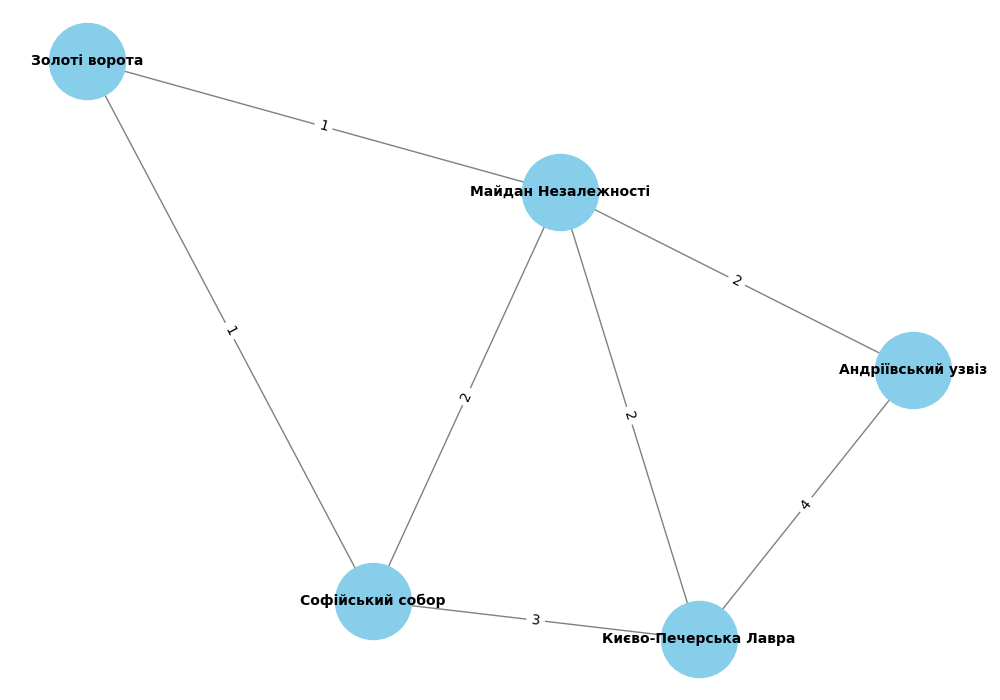
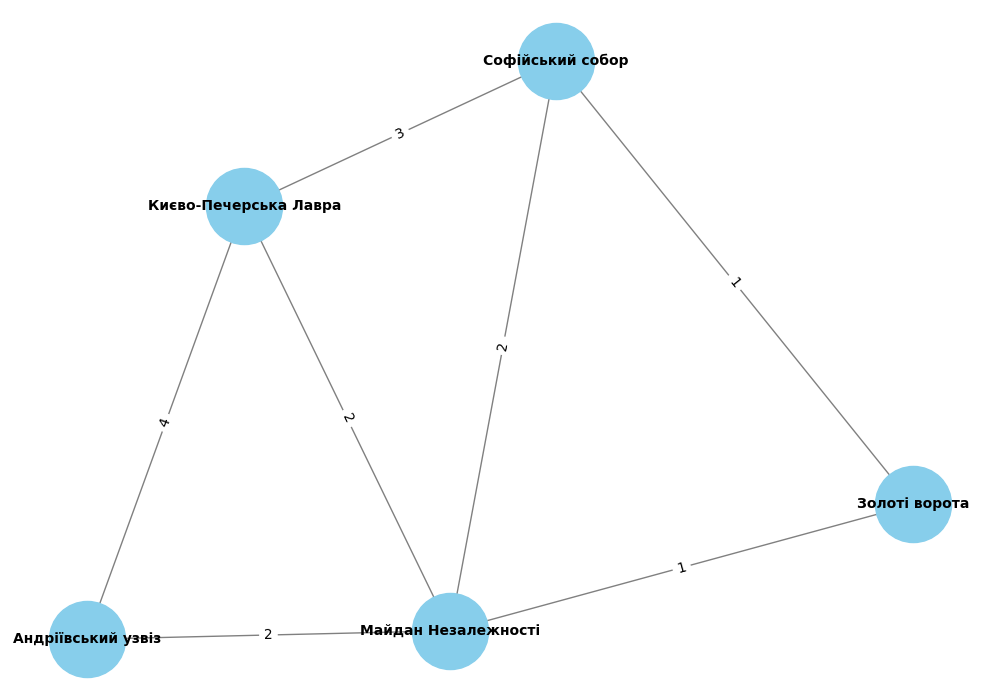
task3

diff --git a/task3.py b/task3.py
@@ -1,4 +1,6 @@
 # Завдання 3
+# Реалізуйте алгоритм Дейкстри для знаходження найкоротшого шляху в розробленому графі: 
+# додайте у граф ваги до ребер та знайдіть найкоротший шлях між всіма вершинами графа.
 
 import networkx as nx
 import matplotlib.pyplot as plt
@@ -6,37 +8,128 @@ import matplotlib.pyplot as plt
 # Створимо порожній граф
 G = nx.Graph()
 
-# Додамо вершини (станції метро)
-stations = {
-    "Червона лінія": ["Академмістечко", "Житомирська", "Святошин", "Нивки", "Берестейська", "Шулявська", "Політехнічний інститут", "Вокзальна", "Університет", "Театральна", "Хрещатик", "Арсенальна", "Дніпро", "Лівобережна", "Дарниця", "Чернігівська", "Лісова"],
-    "Синя лінія": ["Героїв Дніпра", "Мінська", "Оболонь", "Почайна", "Тараса Шевченка", "Контрактова площа", "Поштова площа", "Майдан Незалежності", "Площа Льва Толстого", "Олімпійська", "Палац Україна", "Либідська", "Деміївська", "Голосіївська", "Васильківська", "Виставковий центр", "Іподром", "Теремки"],
-    "Зелена лінія": ["Сирець", "Дорогожичі", "Лук'янівська", "Золоті ворота", "Палац спорту", "Кловська", "Печерська", "Дружби народів", "Видубичі", "Славутич", "Осокорки", "Позняки", "Харківська", "Вирлиця", "Бориспільська", "Червоний хутір"]
-}
+# Додамо вершини (туристичні місця)
+tourist_sites = ["Києво-Печерська Лавра", "Софійський собор", "Золоті ворота", "Майдан Незалежності", "Андріївський узвіз"]
 
-# Додамо вершини та ребра для кожної лінії метро з вагами
-for line, stops in stations.items():
-    G.add_nodes_from(stops)
-    G.add_edges_from([(stops[i], stops[i+1], {'weight': 1}) for i in range(len(stops) - 1)])
+# Додамо вершини до графа
+G.add_nodes_from(tourist_sites)
 
-# Додамо декілька перехідних ребер з вагами
-transfer_edges = [
-    ("Театральна", "Золоті ворота", 1),
-    ("Хрещатик", "Майдан Незалежності", 1),
-    ("Палац спорту", "Площа Льва Толстого", 1)
+# Додамо ребра (маршрути між туристичними місцями)
+# Відстані між туристичними місцями взяті умовно для прикладу
+edges = [
+    ("Києво-Печерська Лавра", "Софійський собор", 3),
+    ("Софійський собор", "Золоті ворота", 1),
+    ("Золоті ворота", "Майдан Незалежності", 1),
+    ("Майдан Незалежності", "Андріївський узвіз", 2),
+    ("Андріївський узвіз", "Києво-Печерська Лавра", 4),
+    ("Києво-Печерська Лавра", "Майдан Незалежності", 2),  # Додаткове ребро
+    ("Софійський собор", "Майдан Незалежності", 2)  # Додаткове ребро
 ]
-for u, v, w in transfer_edges:
+
+# Додаємо ребра до графа з вагами
+for u, v, w in edges:
     G.add_edge(u, v, weight=w)
 
 # Візуалізуємо граф
 pos = nx.spring_layout(G)  # Розташування вершин
-plt.figure(figsize=(15, 10))
-nx.draw(G, pos, with_labels=True, node_color='skyblue', node_size=2000, edge_color='gray', font_size=10)
+plt.figure(figsize=(10, 7))
+nx.draw(G, pos, with_labels=True, node_color='skyblue', node_size=3000, edge_color='gray', font_size=10, font_weight='bold')
 labels = nx.get_edge_attributes(G, 'weight')
 nx.draw_networkx_edge_labels(G, pos, edge_labels=labels)
-plt.title("Карта метро міста Київ з вагами ребер")
+plt.title("Транспортна мережа туристичних місць Києва")
+plt.savefig("graph1.png")  # Збереження зображення графа
 plt.show()
 
-# Алгоритм Дейкстри
+# Реалізація DFS (Depth-First Search)
+def dfs(graph, start, goal, path=None, visited=None):
+    if path is None:
+        path = []
+    if visited is None:
+        visited = set()
+    path.append(start)
+    visited.add(start)
+    if start == goal:
+        return path
+    for neighbor in graph[start]:
+        if neighbor not in visited:
+            result = dfs(graph, neighbor, goal, path.copy(), visited)
+            if result is not None:
+                return result
+    return None
+
+# Реалізація BFS (Breadth-First Search)
+def bfs(graph, start, goal):
+    queue = [(start, [start])]
+    visited = set()
+    while queue:
+        (vertex, path) = queue.pop(0)
+        if vertex not in visited:
+            if vertex == goal:
+                return path
+            visited.add(vertex)
+            for neighbor in graph[vertex]:
+                queue.append((neighbor, path + [neighbor]))
+    return None
+
+# Знаходимо шляхи за допомогою DFS та BFS
+start, goal = "Києво-Печерська Лавра", "Андріївський узвіз"
+path_dfs = dfs(G, start, goal)
+path_bfs = bfs(G, start, goal)
+
+print(f"Шлях від {start} до {goal} за допомогою DFS: {path_dfs}")
+print(f"Шлях від {start} до {goal} за допомогою BFS: {path_bfs}")
+
+# Пояснення результатів
+explanation = """
+Пояснення результатів:
+DFS (глибини пошуку) йде по глибоких шляхах до тих пір, поки не досягне цілі або не повернеться назад. 
+Це означає, що DFS може знайти шлях, який не є найкоротшим, особливо якщо в графі є кілька шляхів до цілі.
+BFS (ширини пошуку) йде по всіх сусідніх вершинах, перш ніж перейти на наступний рівень глибини, тому знаходить найкоротший шлях у графі.
+"""
+print(explanation)
+
+# Створення документа markdown
+readme_content = f"""
+# Порівняння алгоритмів DFS та BFS для знаходження шляхів у графі
+
+## Опис
+Цей документ містить порівняння алгоритмів DFS (глибини пошуку) та BFS (ширини пошуку) для знаходження шляхів у графі, що моделює транспортну мережу туристичних місць Києва.
+
+## Граф
+Мережа включає такі туристичні місця:
+1. Києво-Печерська Лавра
+2. Софійський собор
+3. Золоті ворота
+4. Майдан Незалежності
+5. Андріївський узвіз
+
+Графічне представлення мережі:
+
+![Граф](graph.png)
+
+## Результати пошуку
+
+### Шлях від "Києво-Печерська Лавра" до "Андріївський узвіз"
+
+#### DFS (глибини пошуку)
+- Шлях: {path_dfs}
+
+#### BFS (ширини пошуку)
+- Шлях: {path_bfs}
+
+## Пояснення результатів
+DFS (глибини пошуку) йде по глибоких шляхах до тих пір, поки не досягне цілі або не повернеться назад. Це означає, що DFS може знайти шлях, який не є найкоротшим, особливо якщо в графі є кілька шляхів до цілі.
+
+BFS (ширини пошуку) йде по всіх сусідніх вершинах, перш ніж перейти на наступний рівень глибини, тому знаходить найкоротший шлях у графі.
+
+## Висновки
+- **DFS** може знайти будь-який шлях до цілі, але не завжди найкоротший.
+- **BFS** завжди знаходить найкоротший шлях, якщо всі ребра мають однакову вагу.
+
+На основі отриманих результатів, алгоритм BFS краще підходить для знаходження найкоротшого шляху в графах з рівними вагами ребер.
+"""
+
+# Реалізація алгоритму Дейкстри
 def dijkstra(graph, start):
     shortest_paths = {start: (None, 0)}
     current_node = start
@@ -47,43 +140,45 @@ def dijkstra(graph, start):
         destinations = graph[current_node]
         weight_to_current_node = shortest_paths[current_node][1]
 
-        for next_node, data in destinations.items():
-            weight = data['weight'] + weight_to_current_node
+        for next_node in destinations:
+            weight = graph[current_node][next_node]['weight'] + weight_to_current_node
             if next_node not in shortest_paths:
                 shortest_paths[next_node] = (current_node, weight)
             else:
                 current_shortest_weight = shortest_paths[next_node][1]
                 if current_shortest_weight > weight:
                     shortest_paths[next_node] = (current_node, weight)
-        
+
         next_destinations = {node: shortest_paths[node] for node in shortest_paths if node not in visited}
         if not next_destinations:
             return shortest_paths
-        
+
         current_node = min(next_destinations, key=lambda k: next_destinations[k][1])
 
     return shortest_paths
 
-# Знаходимо найкоротші шляхи від Академмістечка до всіх інших станцій
-start_station = "Академмістечко"
-shortest_paths = dijkstra(G, start_station)
+# Знаходження найкоротших шляхів від кожної вершини до кожної іншої вершини
+shortest_paths_all = {}
+for node in G.nodes:
+    shortest_paths_all[node] = dijkstra(G, node)
 
-# Виводимо найкоротші шляхи та відстані
-for destination in shortest_paths:
-    path = []
-    node = destination
-    while node is not None:
-        path.append(node)
-        node = shortest_paths[node][0]
-    path = path[::-1]
-    print(f"Найкоротший шлях від {start_station} до {destination}: {' -> '.join(path)} з відстанню {shortest_paths[destination][1]}")
+# Оновлення markdown документа з результатами алгоритму Дейкстри
+readme_content += "\n## Найкоротші шляхи за алгоритмом Дейкстри\n"
 
-# Візуалізація графа з найкоротшими шляхами від Академмістечка
-plt.figure(figsize=(15, 10))
-nx.draw(G, pos, with_labels=True, node_color='skyblue', node_size=2000, edge_color='gray', font_size=10)
-nx.draw_networkx_nodes(G, pos, nodelist=[start_station], node_color='green', node_size=3000)
-nx.draw_networkx_edges(G, pos, edgelist=[(shortest_paths[node][0], node) for node in shortest_paths if shortest_paths[node][0] is not None], edge_color='red')
-labels = nx.get_edge_attributes(G, 'weight')
-nx.draw_networkx_edge_labels(G, pos, edge_labels=labels)
-plt.title("Найкоротші шляхи від Академмістечка")
-plt.show()
+for start_node, paths in shortest_paths_all.items():
+    readme_content += f"\n### Найкоротші шляхи від {start_node}:\n"
+    for end_node in paths:
+        path = []
+        current_node = end_node
+        while current_node is not None:
+            path.append(current_node)
+            next_node = paths[current_node][0]
+            current_node = next_node
+        path = path[::-1]
+        readme_content += f"- до {end_node}: {path} з вагою {paths[end_node][1]}\n"
+
+# Збереження оновленого документа markdown
+with open("README.md", "w", encoding="utf-8") as md_file:
+    md_file.write(readme_content)
+
+print("Документ README.md оновлено з результатами алгоритму Дейкстри")

diff --git a/README.md b/README.md
@@ -36,3 +36,40 @@ BFS (ширини пошуку) йде по всіх сусідніх верши
 - **BFS** завжди знаходить найкоротший шлях, якщо всі ребра мають однакову вагу.
 
 На основі отриманих результатів, алгоритм BFS краще підходить для знаходження найкоротшого шляху в графах з рівними вагами ребер.
+
+## Найкоротші шляхи за алгоритмом Дейкстри
+
+### Найкоротші шляхи від Києво-Печерська Лавра:
+- до Києво-Печерська Лавра: ['Києво-Печерська Лавра'] з вагою 0
+- до Софійський собор: ['Києво-Печерська Лавра', 'Софійський собор'] з вагою 3
+- до Андріївський узвіз: ['Києво-Печерська Лавра', 'Андріївський узвіз'] з вагою 4
+- до Майдан Незалежності: ['Києво-Печерська Лавра', 'Майдан Незалежності'] з вагою 2
+- до Золоті ворота: ['Києво-Печерська Лавра', 'Майдан Незалежності', 'Золоті ворота'] з вагою 3
+
+### Найкоротші шляхи від Софійський собор:
+- до Софійський собор: ['Софійський собор'] з вагою 0
+- до Києво-Печерська Лавра: ['Софійський собор', 'Києво-Печерська Лавра'] з вагою 3
+- до Золоті ворота: ['Софійський собор', 'Золоті ворота'] з вагою 1
+- до Майдан Незалежності: ['Софійський собор', 'Майдан Незалежності'] з вагою 2
+- до Андріївський узвіз: ['Софійський собор', 'Майдан Незалежності', 'Андріївський узвіз'] з вагою 4
+
+### Найкоротші шляхи від Золоті ворота:
+- до Золоті ворота: ['Золоті ворота'] з вагою 0
+- до Софійський собор: ['Золоті ворота', 'Софійський собор'] з вагою 1
+- до Майдан Незалежності: ['Золоті ворота', 'Майдан Незалежності'] з вагою 1
+- до Києво-Печерська Лавра: ['Золоті ворота', 'Майдан Незалежності', 'Києво-Печерська Лавра'] з вагою 3
+- до Андріївський узвіз: ['Золоті ворота', 'Майдан Незалежності', 'Андріївський узвіз'] з вагою 3
+
+### Найкоротші шляхи від Майдан Незалежності:
+- до Майдан Незалежності: ['Майдан Незалежності'] з вагою 0
+- до Золоті ворота: ['Майдан Незалежності', 'Золоті ворота'] з вагою 1
+- до Андріївський узвіз: ['Майдан Незалежності', 'Андріївський узвіз'] з вагою 2
+- до Києво-Печерська Лавра: ['Майдан Незалежності', 'Києво-Печерська Лавра'] з вагою 2
+- до Софійський собор: ['Майдан Незалежності', 'Софійський собор'] з вагою 2
+
+### Найкоротші шляхи від Андріївський узвіз:
+- до Андріївський узвіз: ['Андріївський узвіз'] з вагою 0
+- до Майдан Незалежності: ['Андріївський узвіз', 'Майдан Незалежності'] з вагою 2
+- до Києво-Печерська Лавра: ['Андріївський узвіз', 'Києво-Печерська Лавра'] з вагою 4
+- до Золоті ворота: ['Андріївський узвіз', 'Майдан Незалежності', 'Золоті ворота'] з вагою 3
+- до Софійський собор: ['Андріївський узвіз', 'Майдан Незалежності', 'Софійський собор'] з вагою 4
